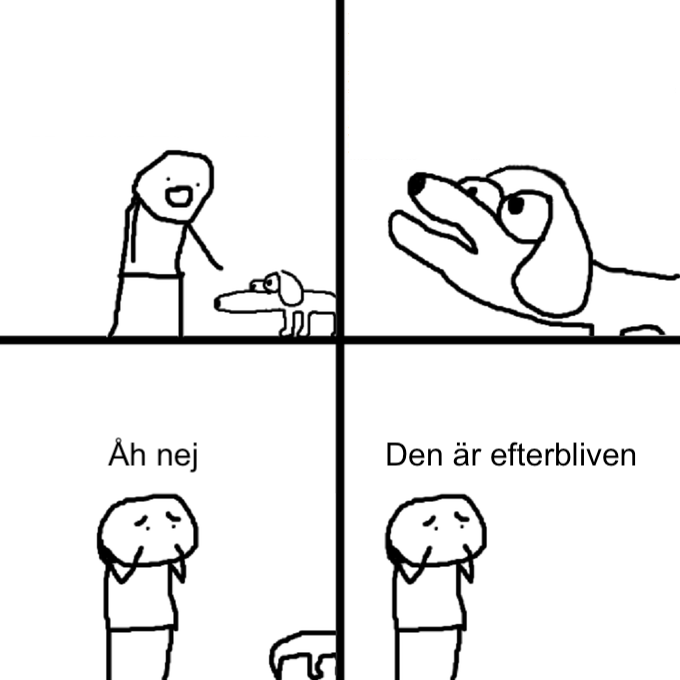
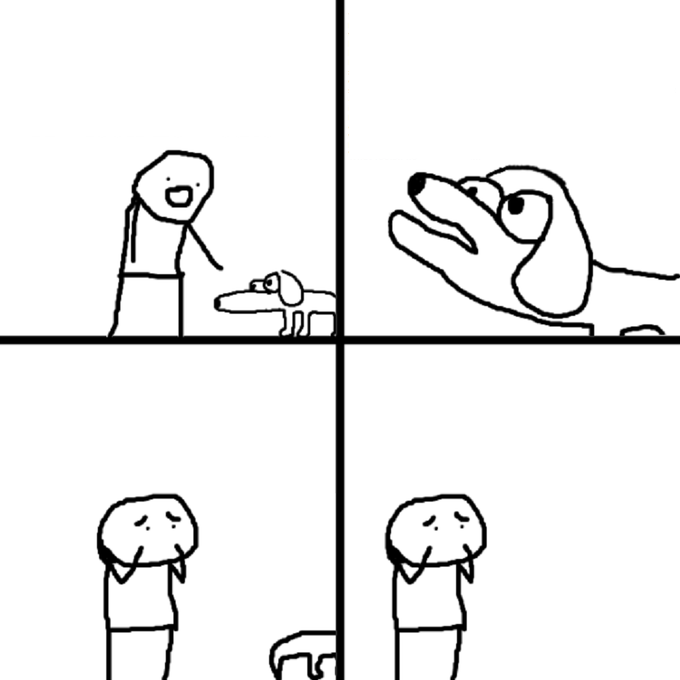
Write all text using canvas

Changed region(s): [[0.5559, 0.6485, 0.9574, 0.7103], [0.1544, 0.6485, 0.3088, 0.7103]]

diff --git a/drawCanvas.js b/drawCanvas.js
@@ -1,4 +1,5 @@
-var marginTop = 130;
+var firstRowMarginTop = 130;
+var secondRowMarginTop = 465;
 var maxWith = 300;
 var canvasWidth = canvasHeight = 680;
 var fontSize = 30;
@@ -16,12 +17,16 @@ ctx.font = 'normal ' + fontSize + 'px arial';
 
 function drawCanvas(text1, text2) {
     ctx.drawImage(sourceImg, 0, 0);
-    writeText(text1, 20, .5, 8);
-    writeText(text2, 360, .2, 4);
+
+    writeText(text1, firstRowMarginTop, 20, .5, 8);
+    writeText(text2, firstRowMarginTop, 360, .2, 4);
+
+    writeText('Åh nej', secondRowMarginTop, 110, 0, 0);
+    writeText('Den är efterbliven', secondRowMarginTop, 390, 0, 0);
     return canvas;
 }
 
-function writeText(text, marginLeft, whereToStart, charWidth) {
+function writeText(text, marginTop, marginLeft, whereToStart, charWidth) {
     var lines = text.split('\n');
     lines.forEach(function(line, index) {
         ctx.fillText(
